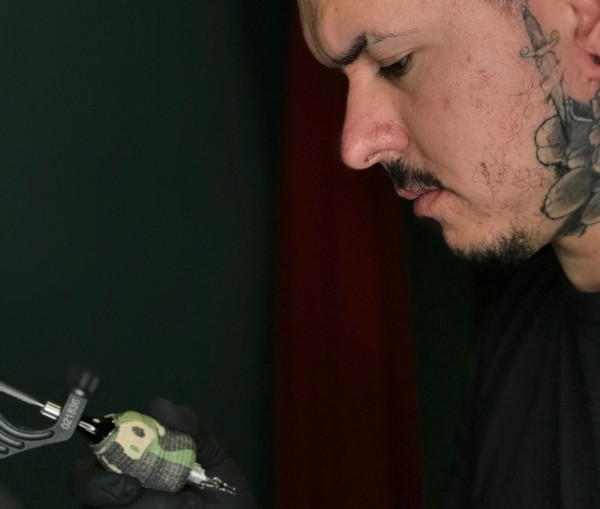
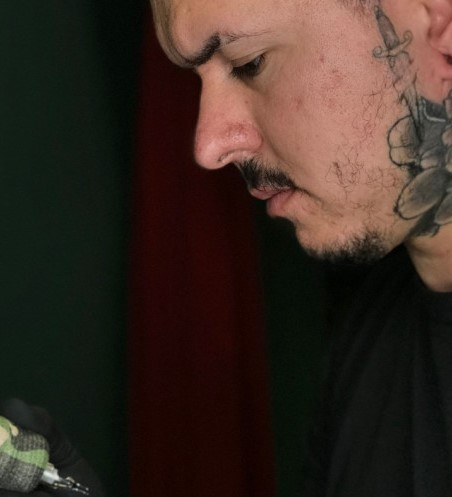
Refactor:alter index.html and style.css

diff --git a/style.css b/style.css
@@ -7,7 +7,7 @@
 
 /*estilização imagem de fundo*/
 .backgroud{
-    background-image: url(Gustavo.jpg);
+    background-image: url(Gustavo3.jpg);
     background-size: cover;
     background-position: center;
     height: 100vh;
@@ -59,11 +59,8 @@ span{
     font-weight: bold;
     padding: 10px 25px;
     border-radius: 30px;
-    transition: transform .4s;
 }
-.btn:hover{
-    transform: scale(1.2);
-}
+
 /*estilização segunda sessão*/
 .Main{
     position: absolute;
@@ -73,7 +70,7 @@ span{
 }
 
 h4{
-    color:#fcfcfc;
+    color: #fff;
     letter-spacing: 2px;
     font-size: 20px;
 }
@@ -81,25 +78,26 @@ h1{
     color: #fff;
     margin: 20px 0px 20px;
     font-size: 70px;
+   
 }
 h3{
     color: #fff;
     font-size: 20px;
     margin-bottom: 50px;
 }
-.Container-btn form{
+.Container-btn2 form{
     width: 380px;
     max-width: 100%;
     position: relative;
 }
-.Container-btn form input:first-child{
+.Container-btn2 form input:first-child{
     display: inline-block;
     width: 100%;
     padding: 14px 130px 14px 15px;
     border-radius: 30px;
     outline: none;
 }
-.Container-btn form input:last-child{
+.Container-btn2 form input:last-child{
     position: absolute;
     display: inline-block;
     outline: none;
@@ -112,19 +110,20 @@ h3{
     right: 6px;
     top: 6px;
 }
-.Container-btn form input:last-child:hover{
+.Container-btn2 form input:last-child:hover{
     transform: scale(1.2);
+    transition: .8s;
 }
 /*estilização sobre o artista*/
 .backgroud-color-sobre{
     background-color: #191919;
     width: 100%;
-    height: 100vh;
     padding: 100px 0px;
 }
 .backgroud-color-sobre img{
-    width: 350px;
+    width: 200px;
     height: auto;
+    margin-right: 15px;
 }
 .text-sobre{
     width: 550px;
@@ -133,8 +132,10 @@ h3{
     display: flex;
     align-items: center;
     justify-content: space-around;
-    width: 1000px;
     margin: 0 auto;
+    width: 100%;
+    padding: 100px 0px;
+  
 }
 .text-sobre h2{
     color: #fff;
@@ -148,6 +149,7 @@ h3{
     font-size: 22px;
     margin-bottom: 20px;
     text-transform: capitalize;
+  
 }
 .text-sobre p{
     color: #fff;
@@ -220,10 +222,87 @@ text-align: center;
     margin-bottom: 20px;
 }
 .btn{
-    border: none;
-    padding: 10px;
+    background-color: #8B0000;
+    color: #fff;
+    text-transform: none;
+    border: 2px solid transparent;
+    font-weight: bold;
+    padding: 13px 20px;
+    border-radius: 30px;
+    transition: .4s;
 }
 .btn:hover{
     background-color: transparent;
     border: 2px solid #8B0000;
+    cursor: pointer;
+}
+/*estilização quarta sessão*/
+.studio{
+    width: 100%;
+    padding: 80px 0px;
+    background-color: #191919;
+    display: flex;
+    flex-direction: column;
+    justify-content: center;
+    align-items: center;
+}
+.studio p{
+    color: #fff;
+    font-size: 30px;
+    font-weight: bold;
+    margin-bottom: 25px;
+}
+.studio iframe{
+    margin-bottom: 25px;
+}
+/* estilização do footer*/
+footer{
+    position: relative;
+    width: 100%;
+    height: 400px;
+    background-color: #101010;
+    display: flex;
+    flex-direction: column;
+    align-items: center;
+    justify-content: center;
+}
+h6{
+ font-size: 35px;
+ color: #fff;
+}
+footer p{
+font-size: 20px;
+color: #fff;
+text-align: center;
+margin-top: 10px;
+margin-bottom: 10px;
+line-height: 25px;
+}
+.redes-sociais{
+    display: flex;
+}
+.redes-sociais a{
+    background-color: #8B0000;
+    width: 45px;
+    height: 45px;
+    padding: 15px;
+    border-radius: 50%;
+    margin: 22px 10px;
+    color: #fff;
+    text-decoration: none;
+    font-size: 20px;
+    align-items: center;
+    display: flex;
+    flex-direction: row;
+}
+.redes-sociais a:hover{
+ transform: scale(1.2);
+ transition: .5s;
+}
+
+.End p{
+    position: relative;
+    color: #8B0000;
+    top: 35px;
+    font-size: 14px;
 }

diff --git a/index.html b/index.html
@@ -31,7 +31,7 @@
             <h4>Olá, meu nome é</h4>
             <h1>Gustavo<span>Saldanha</span></h1>
             <h3>Tatuador</h3>
-            <div class="Container-btn">
+            <div class="Container-btn2">
                <form>
                  <input type="emai" nome="email" id="mail" placeholder="Entre em contato">
                  <input type="submit" nome="submit" value="Contato">
@@ -84,5 +84,26 @@
         </div><!--card-->
        </div><!--caixa-->
      </div><!--container-especilidades-->
+
+
+     <div class="studio">
+      <p> Venha conhecer o nosso espaço</p> 
+      <iframe src="https://www.google.com/maps/embed?pb=!1m18!1m12!1m3!1d3109.68887337311!2d-9.331534224256174!3d38.7937662717463!2m3!1f0!2f0!3f0!3m2!1i1024!2i768!4f13.1!3m3!1m2!1s0xd1ed1b6b7a5a08f%3A0x21982794b4d40d9f!2sBrabo&#39;s%20Tattoo!5e0!3m2!1spt-PT!2spt!4v1681479649722!5m2!1spt-PT!2spt" width="400" height="300" style="border:0;" allowfullscreen="" loading="lazy" referrerpolicy="no-referrer-when-downgrade"></iframe>
+
+      <button class="btn">Agendar visita</button>
+     </div><!--Studio-->
+
+     <footer>
+      <h6> Gustavo Saldanha<span>Art</span></h6>
+      <p>Para um atendimento personalizado e um projeto exclusivo, clique abaixo e entre em contato.</p>
+      <div class="redes-sociais">
+           <a href="#"><i class="fa-brands fa-facebook"></i></a>
+           <a href="#"><i class="fa-brands fa-instagram"></i></a>
+           <a href="#"><i class="fa-brands fa-whatsapp"></i></a>
+      </div><!--Redes sociais-->
+     <div class="End">
+      <p>CopyRigth By Letícia Barros</p>
+     </div>
+     </footer>
 </body>
 </html>
